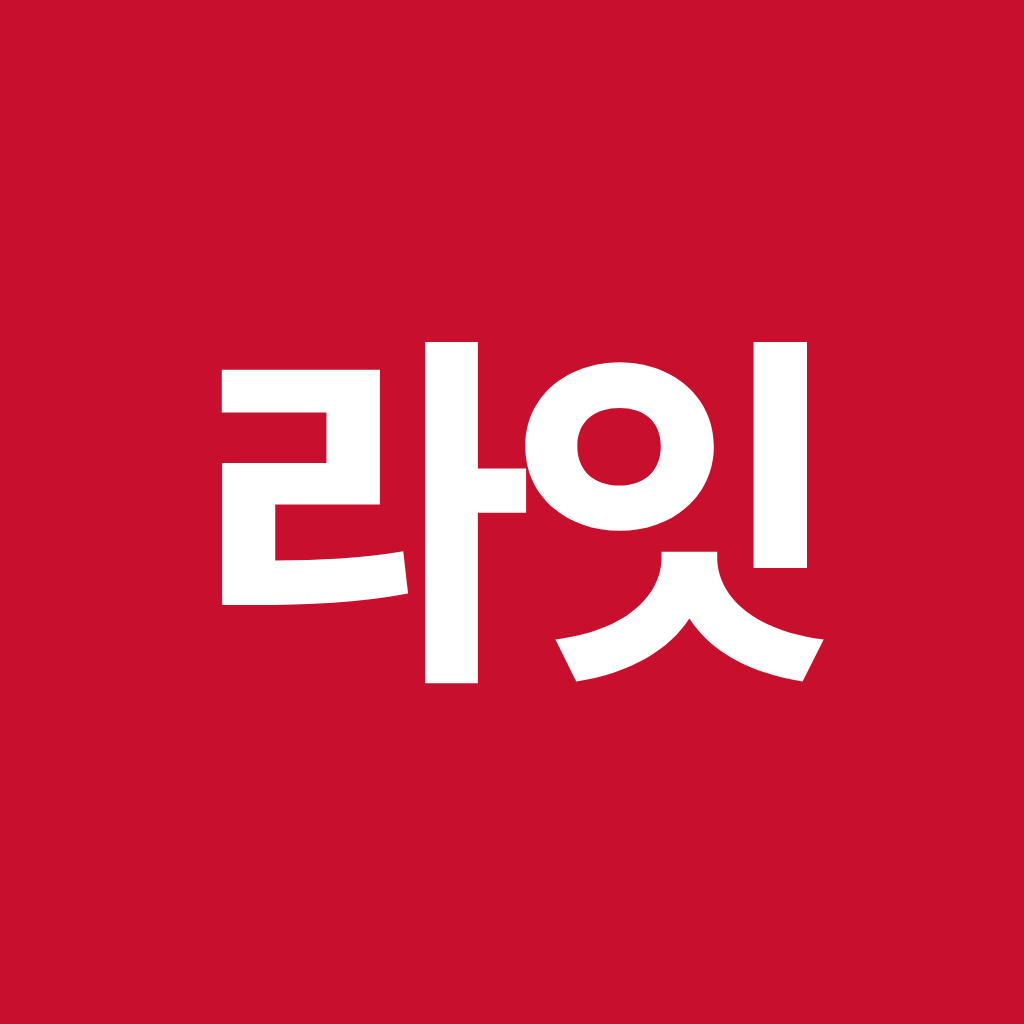
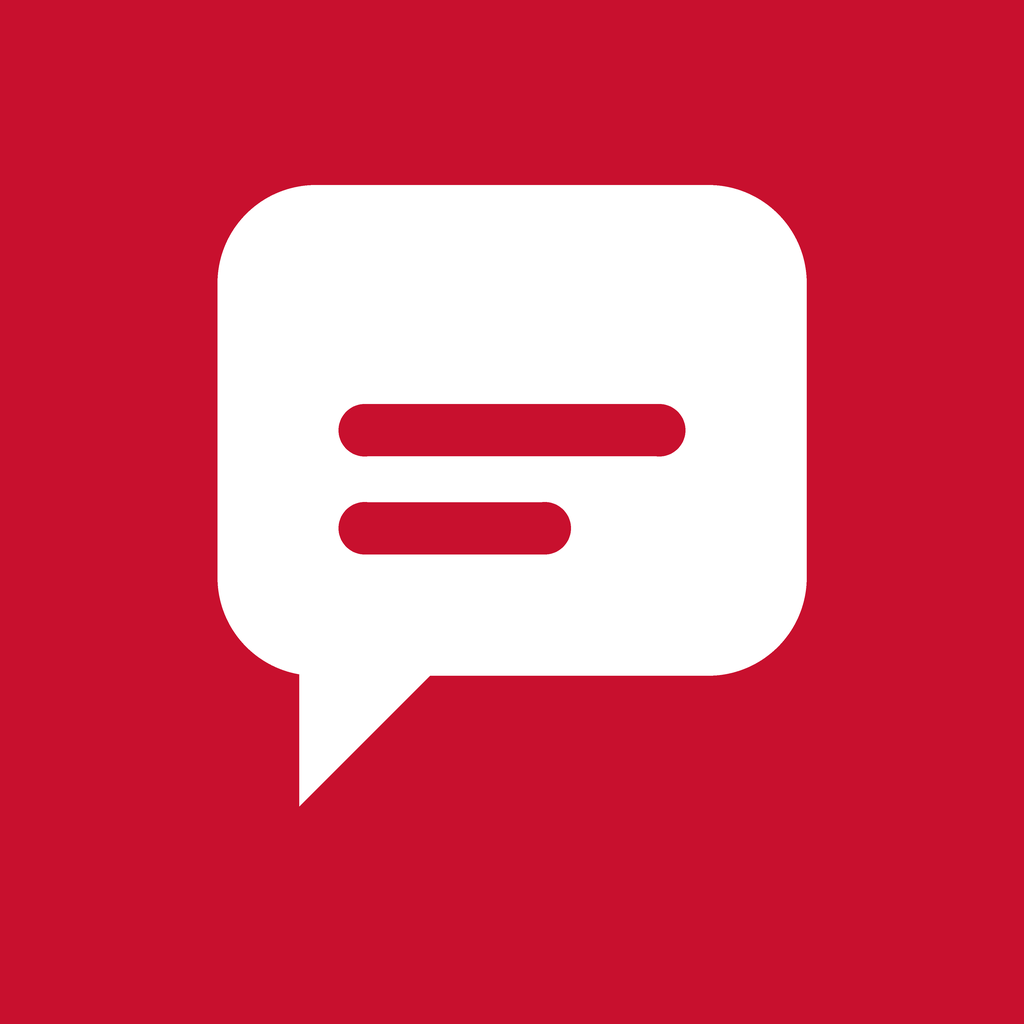
앱 이름을 가칭 '대륜톡'으로 바꾸고 로그인 화면 새로 만듦
로그인: 붉은 말풍선 로고, 아이콘 달린 입력칸, 비밀번호 보기, PC 아이디 저장. 앱·PC 설치 이름과
아이콘도 대륜톡으로. 의뢰인 서비스 이름(라잇나우 멤버십 등)과 내부 식별자(패키지·로그인 주소)는 그대로.

Claude-Session: https://claude.ai/code/session_01WHSVQKvYKhvpjbVRfAqVS4

Changed region(s): [[0.1875, 0.1562, 0.8125, 0.7812]]

diff --git a/src/app/login.tsx b/src/app/login.tsx
@@ -1,43 +1,153 @@
 import { router } from 'expo-router';
 import { useState } from 'react';
-import { KeyboardAvoidingView, Platform, View } from 'react-native';
+import { KeyboardAvoidingView, Platform, Pressable, Text, TextInput, View } from 'react-native';
 import { SafeAreaView } from 'react-native-safe-area-context';
+import Svg, { Path, Rect } from 'react-native-svg';
 
 import { actions, me } from '@/core/store';
 import { serverEnabled } from '@/core/supabase';
-import { Button, Input, Notice, Sub, T } from '@/ui/kit';
-import { MAX_WIDTH, space, useColors } from '@/ui/theme';
+import { Icon, type IconName } from '@/ui/icons';
+import { Notice, Sub } from '@/ui/kit';
+import { family, font, radius, space, useColors } from '@/ui/theme';
+
+export const APP_NAME = '대륜톡';
+const SAVED_ID = 'daeryuntalk.loginId';
+
+// PC·웹에서만 아이디를 기억합니다 (폰은 저장된 로그인이 이어짐)
+function savedId(): string {
+  try {
+    return (Platform.OS === 'web' && globalThis.localStorage?.getItem(SAVED_ID)) || '';
+  } catch {
+    return '';
+  }
+}
+function saveId(id: string | null) {
+  try {
+    if (Platform.OS !== 'web') return;
+    if (id) globalThis.localStorage?.setItem(SAVED_ID, id);
+    else globalThis.localStorage?.removeItem(SAVED_ID);
+  } catch {
+    // 저장 못 해도 로그인은 됩니다
+  }
+}
+
+/** 붉은 말풍선 로고 */
+export function AppMark({ size = 72 }: { size?: number }) {
+  const c = useColors();
+  return (
+    <Svg width={size} height={size} viewBox="0 0 72 72">
+      <Rect x={0} y={0} width={72} height={72} rx={20} fill={c.accent} />
+      <Path d="M18 22c0-3.3 2.7-6 6-6h24c3.3 0 6 2.7 6 6v18c0 3.3-2.7 6-6 6H32l-9 8v-8h-1c-2.2 0-4-1.8-4-4z" fill="#FFFFFF" />
+      <Path d="M27 31h18M27 37h11" stroke={c.accent} strokeWidth={3.2} strokeLinecap="round" />
+    </Svg>
+  );
+}
+
+function Field({ icon, right, ...props }: React.ComponentProps<typeof TextInput> & { icon: IconName; right?: React.ReactNode }) {
+  const c = useColors();
+  const [focus, setFocus] = useState(false);
+  return (
+    <View
+      style={{
+        flexDirection: 'row',
+        alignItems: 'center',
+        gap: space.sm,
+        backgroundColor: c.surface,
+        borderRadius: radius.md,
+        borderWidth: 1.5,
+        borderColor: focus ? c.accent : 'transparent',
+        paddingHorizontal: space.md,
+        marginBottom: space.sm + 2,
+        height: 54,
+      }}>
+      <View style={{ flexShrink: 0 }}>
+        <Icon name={icon} color={focus ? c.accent : c.faint} size={20} />
+      </View>
+      <TextInput
+        placeholderTextColor={c.faint}
+        onFocus={() => setFocus(true)}
+        onBlur={() => setFocus(false)}
+        {...props}
+        style={{ flex: 1, minWidth: 0, height: '100%', color: c.text, fontSize: font.body, fontFamily: family.regular, outlineStyle: 'none' } as object}
+      />
+      {right}
+    </View>
+  );
+}
 
 export default function LoginScreen() {
   const c = useColors();
-  const [loginId, setLoginId] = useState('');
+  const [loginId, setLoginId] = useState(savedId);
   const [password, setPassword] = useState('');
+  const [remember, setRemember] = useState(() => !!savedId());
+  const [show, setShow] = useState(false);
   const [error, setError] = useState<string>();
   const [busy, setBusy] = useState(false);
+  const ready = !!loginId.trim() && !!password && !busy;
 
   const submit = async () => {
-    if (busy) return;
+    if (!ready) return;
     setBusy(true);
     const res = await actions.signIn(loginId, password);
     setBusy(false);
     if (!res.ok) return setError(res.reason);
+    saveId(remember ? loginId.trim() : null);
     router.replace(me().role === 'client' ? '/home' : '/');
   };
 
   return (
     <SafeAreaView style={{ flex: 1, backgroundColor: c.bg }}>
       <KeyboardAvoidingView style={{ flex: 1 }} behavior={Platform.OS === 'ios' ? 'padding' : undefined}>
-        <View style={{ flex: 1, justifyContent: 'center', padding: space.xl, width: '100%', maxWidth: 420, alignSelf: 'center' }}>
-          <T size="title" bold color={c.accent}>라잇나우</T>
-          <View style={{ marginBottom: space.xl }} />
-          <Input label="아이디" autoCapitalize="none" autoCorrect={false} value={loginId} onChangeText={setLoginId} />
-          <Input label="비밀번호" secureTextEntry value={password} onChangeText={setPassword} onSubmitEditing={submit} />
-          {error ? <Notice text={error} /> : null}
-          <Button label={busy ? '로그인 중' : '로그인'} onPress={submit} disabled={!loginId || !password || busy} />
-          <View style={{ marginTop: space.lg, maxWidth: MAX_WIDTH }}>
-            {__DEV__ && !serverEnabled ? <Sub>개발용: admin / admin1234 · staff / staff1234 · lawyer / lawyer1234 · client / client1234</Sub> : null}
+        <View style={{ flex: 1, justifyContent: 'center', paddingHorizontal: space.xl, width: '100%', maxWidth: 420, alignSelf: 'center' }}>
+          <View style={{ alignItems: 'center', marginBottom: space.xxl + space.sm }}>
+            <AppMark />
+            <Text style={{ marginTop: space.lg, fontSize: 32, fontFamily: family.heavy, color: c.text, letterSpacing: -0.5 }}>{APP_NAME}</Text>
+            <Text style={{ marginTop: space.xs, fontSize: font.small, fontFamily: family.semibold, color: c.accent, letterSpacing: 2 }}>법무법인 대륜</Text>
           </View>
+
+          <Field icon="me" placeholder="아이디" autoCapitalize="none" autoCorrect={false} autoComplete="username" value={loginId} onChangeText={setLoginId} returnKeyType="next" />
+          <Field
+            icon="lock"
+            placeholder="비밀번호"
+            secureTextEntry={!show}
+            autoComplete="current-password"
+            value={password}
+            onChangeText={setPassword}
+            onSubmitEditing={submit}
+            returnKeyType="go"
+            right={
+              <Pressable accessibilityLabel={show ? '비밀번호 가리기' : '비밀번호 보기'} hitSlop={10} onPress={() => setShow((v) => !v)}>
+                <Text style={{ color: c.sub, fontSize: font.small, fontFamily: family.semibold }}>{show ? '숨김' : '보기'}</Text>
+              </Pressable>
+            }
+          />
+
+          {Platform.OS === 'web' ? (
+            <Pressable accessibilityRole="checkbox" accessibilityState={{ checked: remember }} onPress={() => setRemember((v) => !v)} style={{ flexDirection: 'row', alignItems: 'center', gap: space.sm, marginVertical: space.sm }}>
+              <View style={{ width: 20, height: 20, borderRadius: 6, borderWidth: 1.5, borderColor: remember ? c.accent : c.line, backgroundColor: remember ? c.accent : 'transparent', alignItems: 'center', justifyContent: 'center' }}>
+                {remember ? <Icon name="check" color="#FFFFFF" size={14} /> : null}
+              </View>
+              <Text style={{ color: c.sub, fontSize: font.small, fontFamily: family.regular }}>아이디 저장</Text>
+            </Pressable>
+          ) : null}
+
+          {error ? <View style={{ marginTop: space.sm }}><Notice text={error} /></View> : null}
+
+          <Pressable
+            accessibilityRole="button"
+            disabled={!ready}
+            onPress={submit}
+            style={({ pressed }) => ({ marginTop: space.md, height: 54, borderRadius: radius.md, backgroundColor: c.accent, alignItems: 'center', justifyContent: 'center', opacity: !ready ? 0.4 : pressed ? 0.8 : 1 })}>
+            <Text style={{ color: '#FFFFFF', fontSize: font.body + 1, fontFamily: family.bold }}>{busy ? '로그인 중…' : '로그인'}</Text>
+          </Pressable>
+
+          {__DEV__ && !serverEnabled ? (
+            <View style={{ marginTop: space.lg }}>
+              <Sub>개발용: admin / admin1234 · staff / staff1234 · lawyer / lawyer1234 · client / client1234</Sub>
+            </View>
+          ) : null}
         </View>
+        <Text style={{ textAlign: 'center', color: c.faint, fontSize: font.tiny, fontFamily: family.regular, paddingBottom: space.lg }}>© 법무법인 대륜</Text>
       </KeyboardAvoidingView>
     </SafeAreaView>
   );

diff --git a/public/sw.js b/public/sw.js
@@ -1,4 +1,4 @@
-// 라잇나우 서비스 워커: PC·폰 브라우저 '앱 설치'와 웹 알림(푸시)을 맡습니다. 화면 파일은 캐시하지 않고 항상 최신판을 받습니다.
+// 대륜톡 서비스 워커: PC·폰 브라우저 '앱 설치'와 웹 알림(푸시)을 맡습니다. 화면 파일은 캐시하지 않고 항상 최신판을 받습니다.
 self.addEventListener('install', () => self.skipWaiting());
 self.addEventListener('activate', (e) => e.waitUntil(self.clients.claim()));
 self.addEventListener('fetch', () => {});
@@ -10,14 +10,14 @@ self.addEventListener('push', (e) => {
   try {
     msg = e.data ? e.data.json() : {};
   } catch {
-    msg = { title: '라잇나우', body: e.data ? e.data.text() : '' };
+    msg = { title: '대륜톡', body: e.data ? e.data.text() : '' };
   }
   const data = msg.data || {};
   e.waitUntil(
     self.clients.matchAll({ type: 'window', includeUncontrolled: true }).then((wins) => {
       // 앱 창을 보고 있으면 새 메시지는 화면에 바로 들어오므로 띄우지 않습니다 (기일 알림은 항상 띄움)
       if (data.kind === 'message' && wins.some((w) => w.focused && w.visibilityState === 'visible')) return;
-      return self.registration.showNotification(msg.title || '라잇나우', {
+      return self.registration.showNotification(msg.title || '대륜톡', {
         body: msg.body || '',
         icon: base + 'app-icon-192.png',
         badge: base + 'app-icon-192.png',

diff --git a/scripts/build-web-preview.py b/scripts/build-web-preview.py
@@ -20,7 +20,7 @@ def inline(m):
 
 
 js = re.sub(r'"(/assets/[^"]+)"', inline, js).replace('</script', '<\\/script')
-page = f'''<title>라잇나우 통합앱</title>
+page = f'''<title>대륜톡</title>
 <style>
 :root {{ --bg: #FFFFFF; }}
 @media (prefers-color-scheme: dark) {{ :root:not([data-theme="light"]) {{ --bg: #101317; color-scheme: dark }} }}
